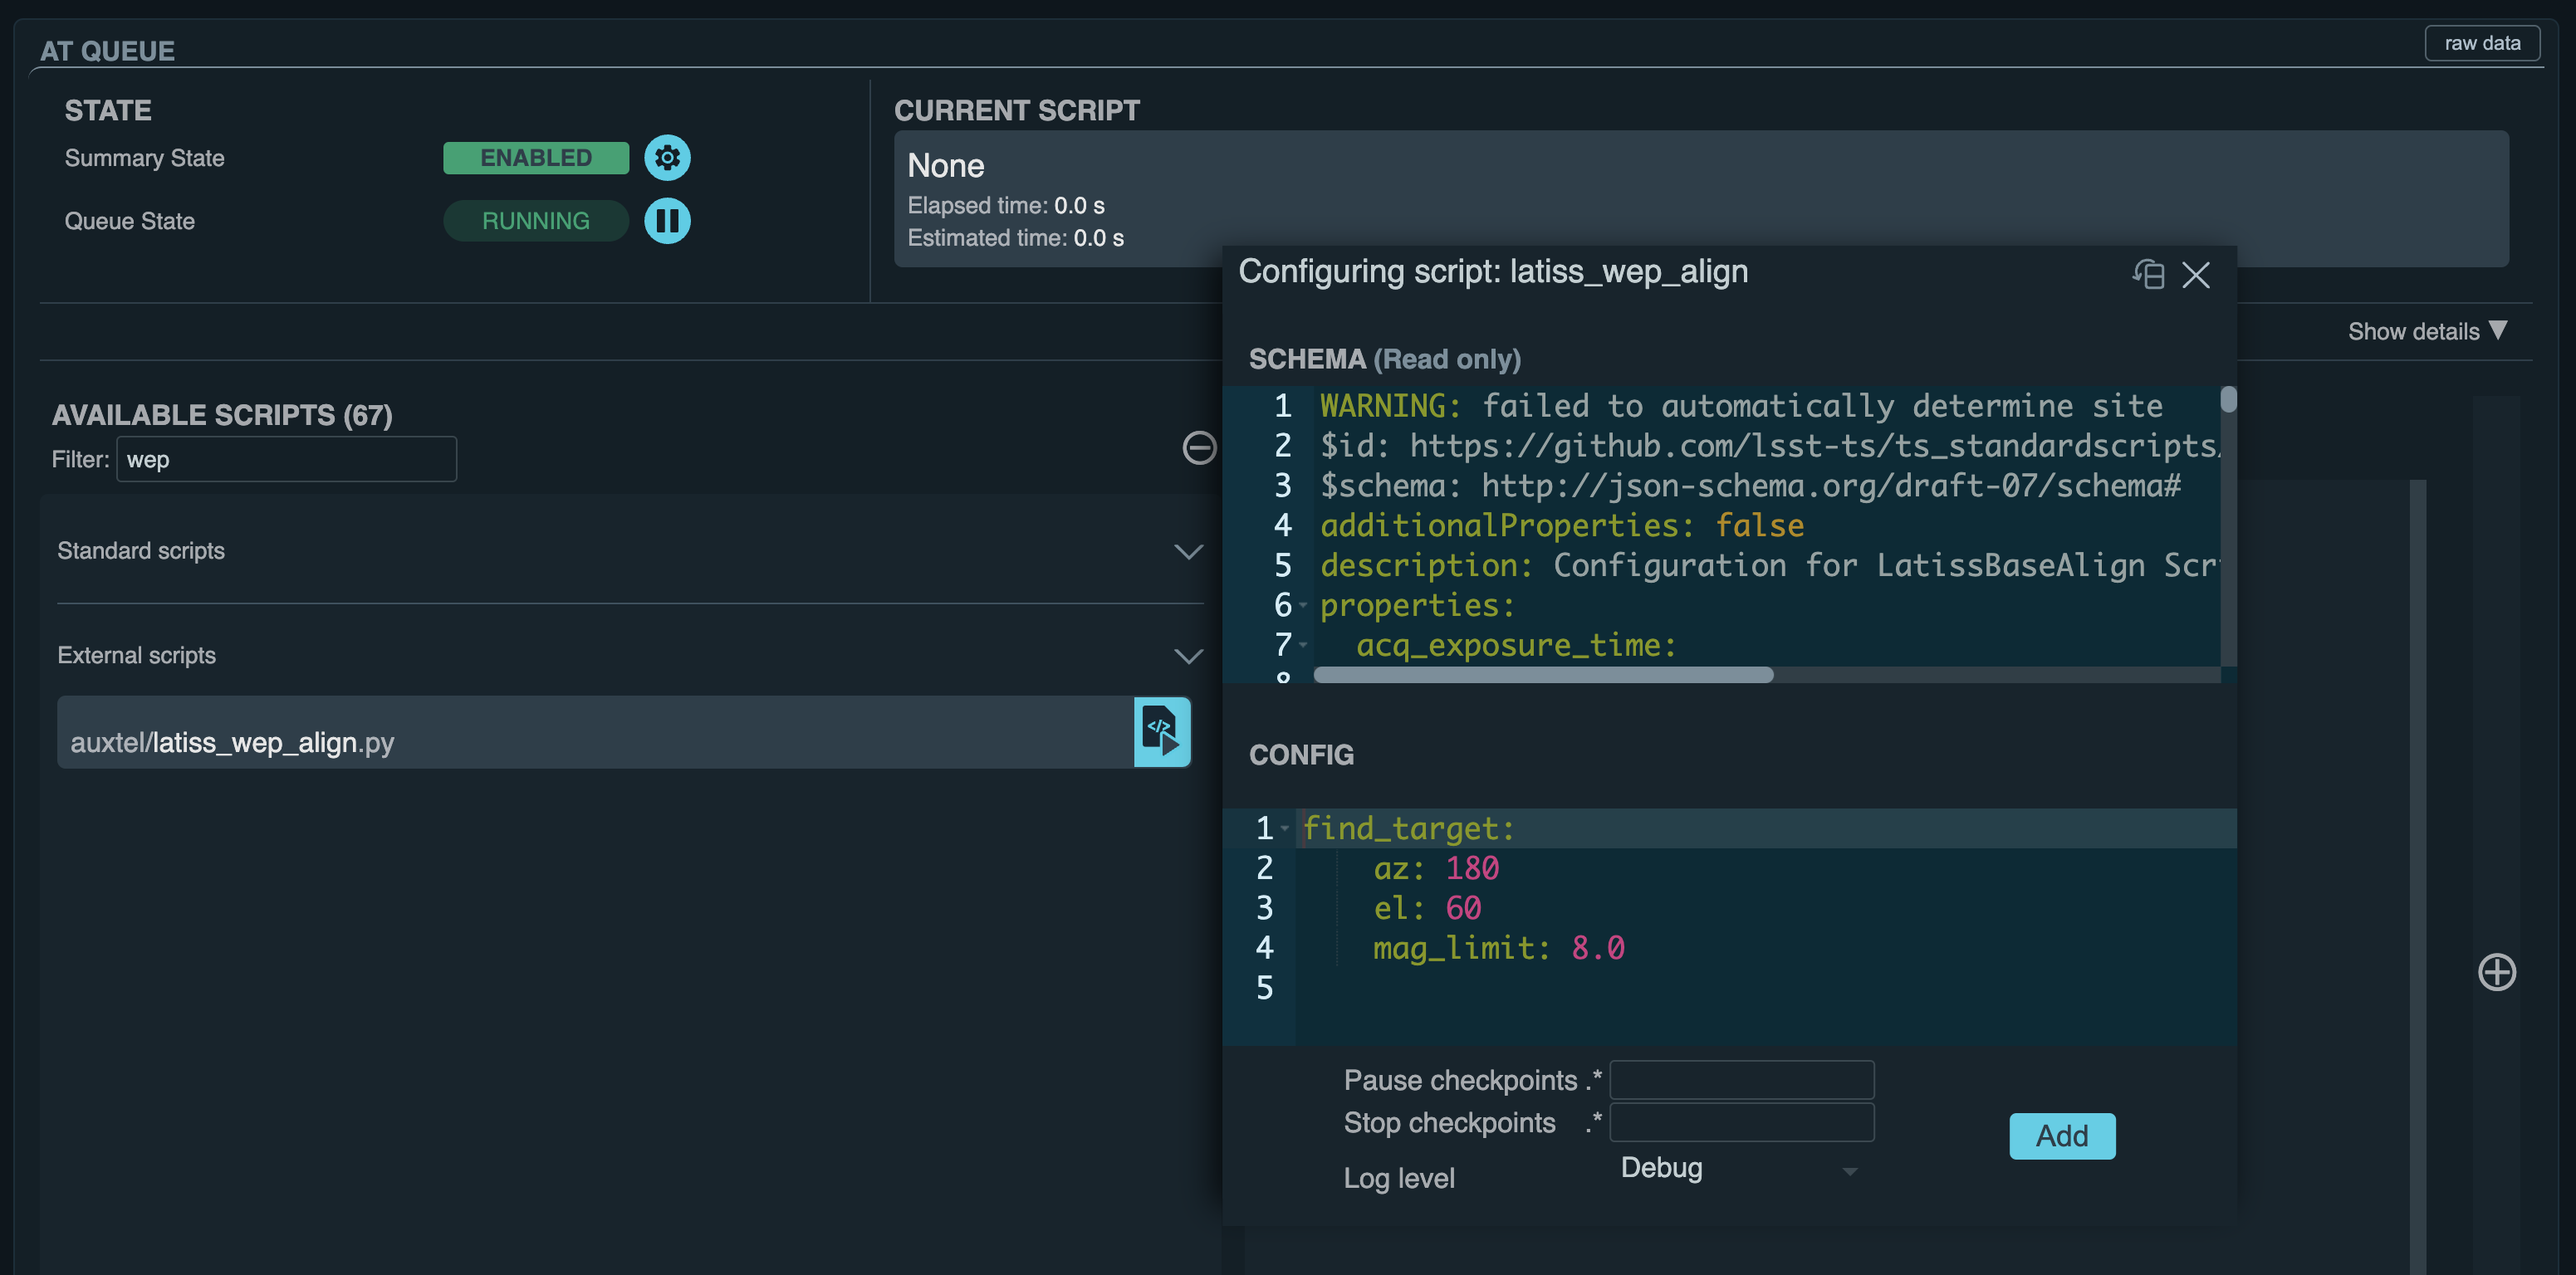
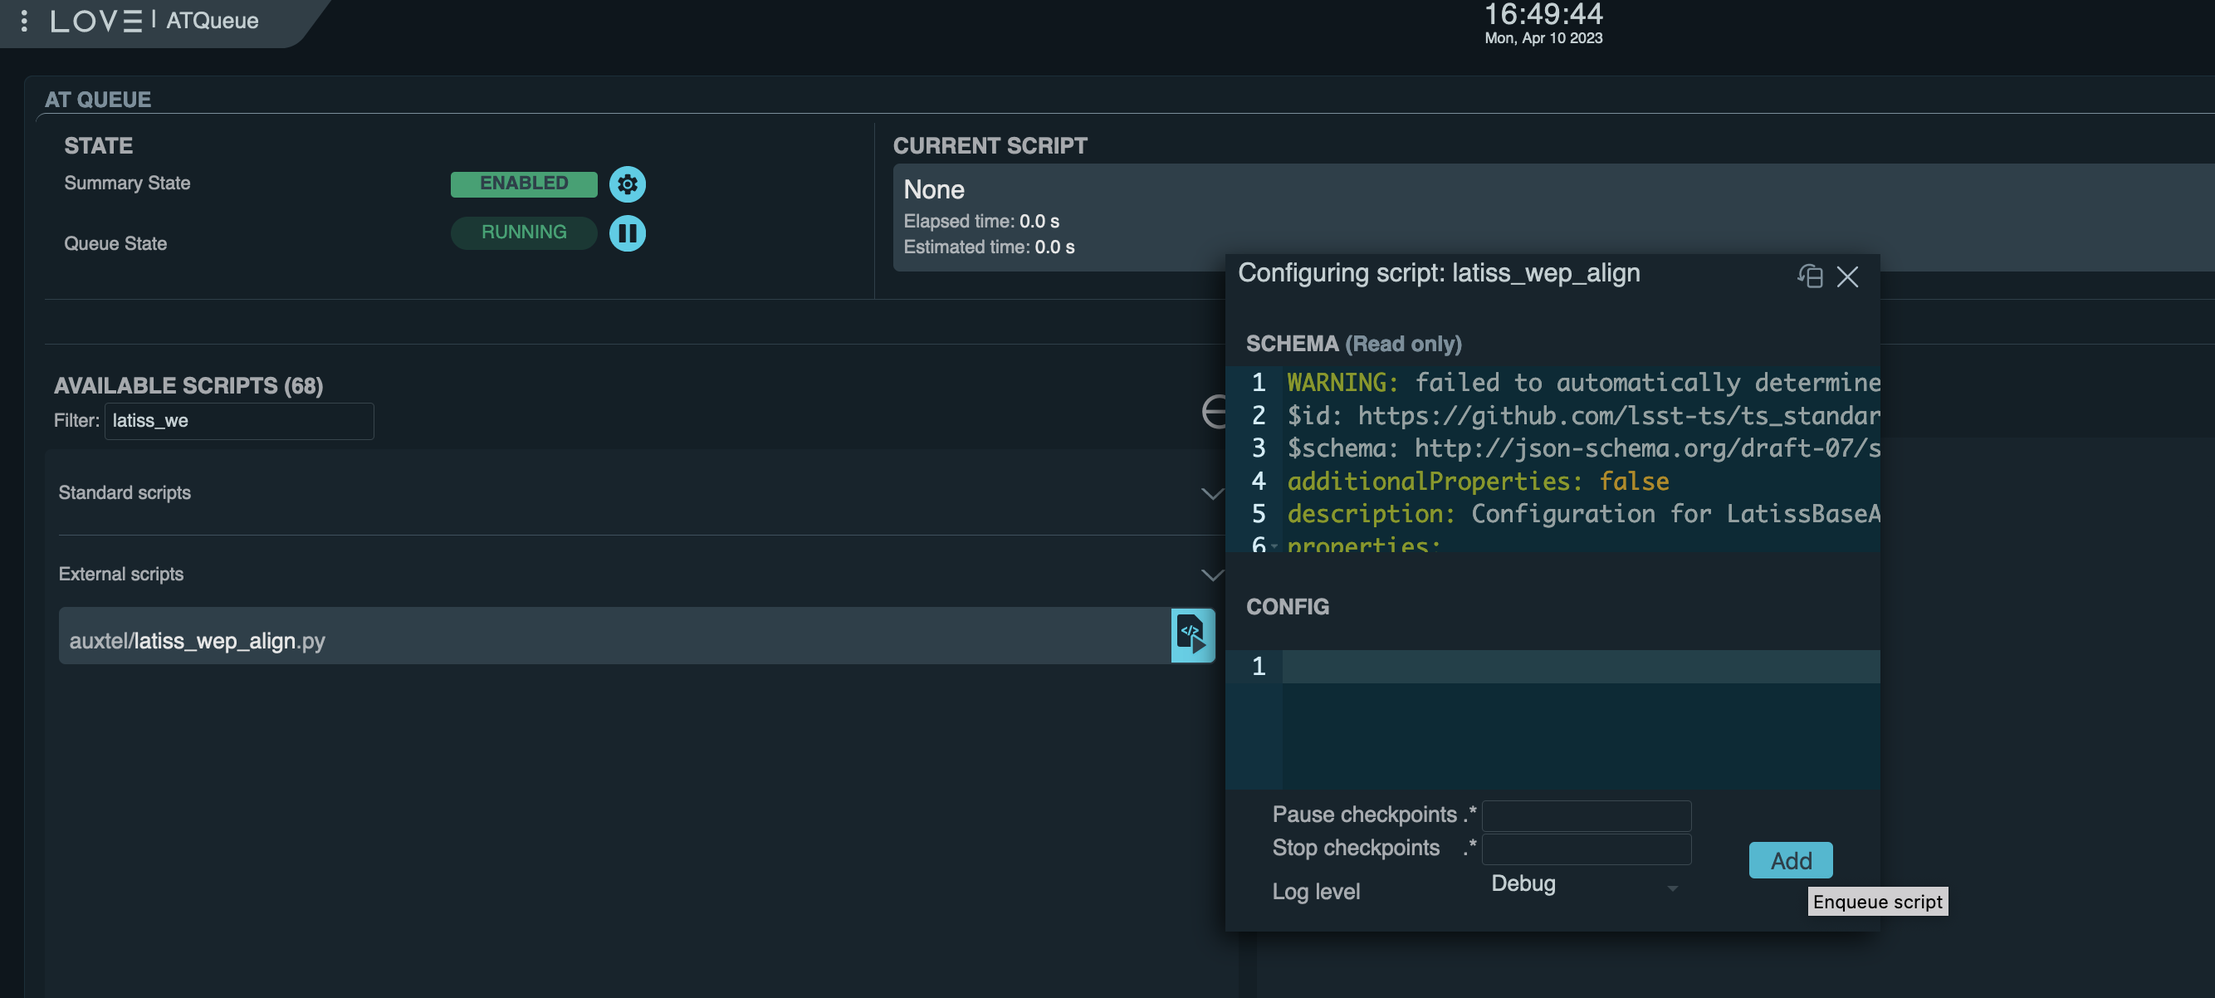
Switch execution order of correct_pointing and latiss_wep_align at the beginning of the night.

diff --git a/Nighttime-Operations/Auxiliary-Telescope/AT-On-Sky/Center-absorbPointingOffsets-alignment-focus.rst b/Nighttime-Operations/Auxiliary-Telescope/AT-On-Sky/Center-absorbPointingOffsets-alignment-focus.rst
@@ -1,0 +1,103 @@
+.. |author| replace:: **
+.. If there are no contributors, write "none" between the asterisks. Do not remove the substitution.
+.. |contributors| replace:: **
+
+.. _AT-On-sky-WEP:
+
+####################################################################################
+Beginning of the night: Center, absorb pointing offsets, mirror alignment and focus
+####################################################################################
+
+.. _Beginning_of_the_night-the-Telescope-Overview:
+
+Overview
+========
+
+This procedure must be followed by the observers before the beginning of dark time, prior to starting science or engineering activities.
+
+It will center a target, absorb the zero-point pointing offsets, align mirrors and focus the telescope. 
+
+.. _Beginning_of_the_night-Prerequisites:
+
+Prerequisites
+=============
+- The telescope is :ref:`open and ready for on-sky operations <AT-Pre-Open-for-On-Sky-Operations>`: 
+  it has been vented (if applicable), mirror cover and dome shutter are open, AOS corrections are enabled. 
+
+- The sky brightness is low enough that the WEP (wavefront estimate pipeline) can converge successfully. 
+  This condition is normally achieved around 10-15 minutes before the end of nautical twilight or dark time. 
+
+.. _Beginning_of_the_night-Post-Conditions:
+
+Post-Condition
+===============
+
+- Telescope is aligned, focused and pointing offsets have been absorbed. 
+  
+  The system is ready to start :ref:`scheduler-driven observations <Nighttime-Scheduler-Scheduler-Operational-Procedures>` or engineering tasks. 
+
+.. _Beginning_of_the_night-Procedure-Steps:
+
+Procedure Steps
+===============
+
+#. Confirm sky background is dark enough. 
+
+   As a general rule, a good time to start executing the following SAL scripts is 10-15 minutes before the end of nautical twilight. 
+
+#. Command the telescope to measure and correct for any nightly pointing zero-point offsets using the SAL script ``auxtel/correct_pointing.py``.
+
+   The steps the script performs in the background are:
+        - Reset the pointing and hexapod x and y offsets.
+        - Acquire target. How to select the source is summarized below. 
+        - Take an image and find the offset between the brightest source in the field and the boresight.
+        - Offset the telescope to place the source at the center of the detector. Take an image to confirm the target has been centered. 
+        - The telescope will absorb the measured pointing offsets. 
+
+   Nominally, the pointing offsets and mirror alignment are performed towards the south, ``az`` 180 deg, and at mid-elevations, ``el`` 60 deg. 
+
+   From the LOVE ``ATQueue`` panel, under ``AVAILABLE SCRIPTS``, add the external script ``auxtel/correct_pointing.py``, by clicking on the blue icon. 
+
+   Under ``CONFIG`` in the ``configuring Script:correct_pointing.py`` window, write the following configuration and click on ``Add``:
+
+   .. code-block:: yaml
+    
+       az: 180
+       el: 60
+       mag_limit: 8.0
+
+   .. figure:: ./_static/CorrectPointing_AuxTel.png
+     :name: correctPointing
+
+     LOVE launching the script to correct the pointing using a source near ``az`` 180 deg and ``el`` 60 deg and magnitude limit ``mag_limit`` 8.0.  
+
+   If the configuration cell is left empty, the script will automatically find a target around ``az`` 90 deg and ``el`` 60 deg, with a ``mag_limit`` of 8.0. 
+
+   Visually inspect the recent images in RubinTV to confirm that the right target has been centered. 
+   If it did, move to the next step. 
+   If it didn't, repeat step #2. 
+
+#. Launch a WEP sequence on the same target to use the wavefront estimation pipeline to measure wavefront error and perform mirror alignment and focus. 
+
+   Load the script ``auxtel/latiss_wep_align.py``, available under ``External scripts`` in the ``ATQueue``. 
+ 
+   In the ``Configuring Script: latiss_wep_align`` window, leave the ``CONFIG`` cell empty to perform the WEP over the same target the centering step was done and 
+   which the telescope is still tracking.
+
+   Click on ``Add`` and the script will be added to the end of the script queue.
+
+   .. figure:: ./_static/WEP_AuxTel.png
+       :name: latiss-wep
+
+       Screenshot of LOVE launching the WEP. 
+
+
+If these three steps were successful, the telescope is now centered, aligned and focus. 
+
+Contact Personnel
+=================
+
+This procedure was last modified on |today|.
+
+This procedure was written by |author|.
+The following are contributors: |contributors|.
